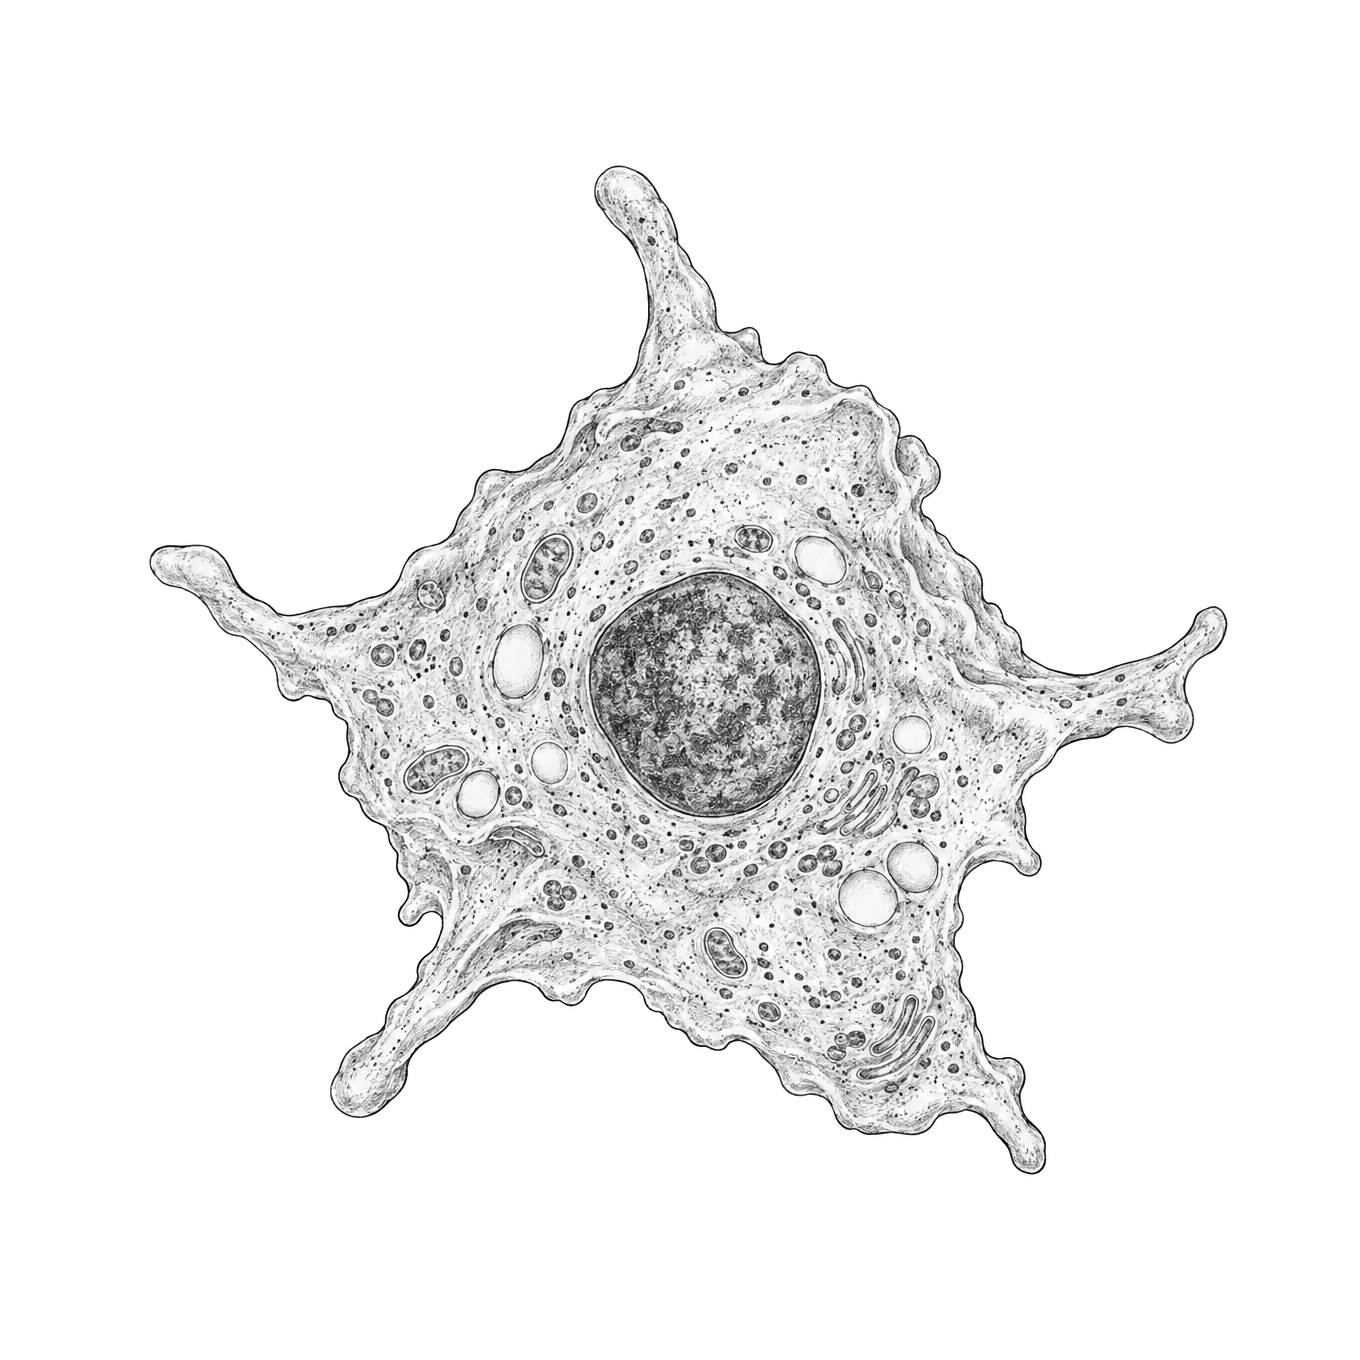
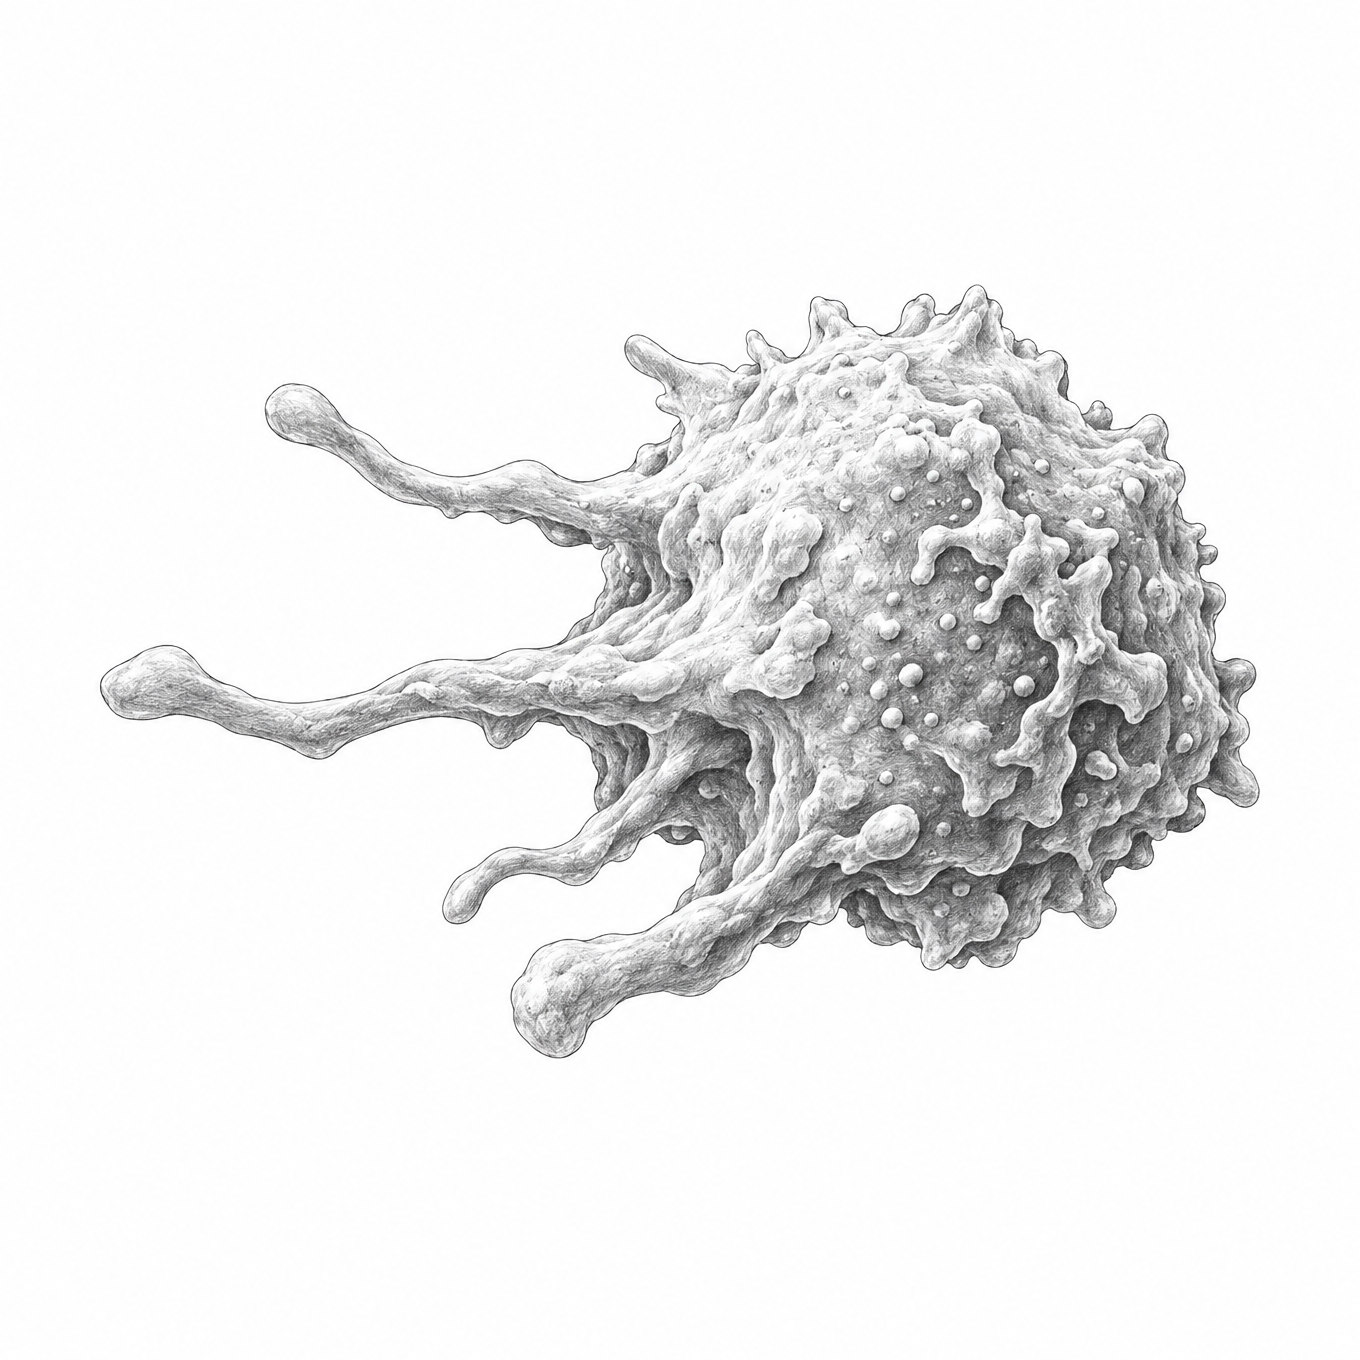
Add apoptosis pictures and prompts
Claude-Session: https://claude.ai/code/session_01JCsiBx7cubghJXYQAVEo1E

Changed region(s): [[0.0618, 0.1235, 0.9265, 0.8647]]

diff --git a/images/prompts.md b/images/prompts.md
@@ -1,55 +1,60 @@
-# Picture prompts
+# Picture prompts: Apoptosis
 
-Only the finger was redone (once). All other pictures passed on the first try.
+Model: GPT Image 2.5 (Sunburst), text to image, quality high, 2K.
 
-Model: GPT Image 2.5 (Sunburst), text to image, quality high, 2K. White background removed afterwards (clean transparent cut-outs).
+Only embryo_hand.png was made again (once). The other four passed on the first try.
 
-## finger.png
+Credits used: 840 (5 × first try + 1 redo).
 
-Aspect ratio: 16:9
+| Picture | Aspect | Credits |
+|---|---|---|
+| hand.png | 3:4 | 150 |
+| embryo_hand.png (try 1, rejected) | 3:4 | 150 |
+| embryo_hand.png (try 2, used) | 3:4 | 150 |
+| cell.png | 1:1 | 130 |
+| cell_fragments.png | 1:1 | 130 |
+| macrophage.png | 1:1 | 130 |
 
-Used (attempt 2):
+---
 
-```
-A single human index finger pointing to the left, seen from the side with the fingernail on top, slightly bent, natural adult proportions, smooth skin with only faint fine knuckle wrinkles on the top of the joints, no wounds, no sores, no bumps, the base of the finger ending in a soft pencil fade, lots of empty space around it, nothing touching the edges. Black and white scientific illustration, fine ink lines and soft graphite shading, like an old textbook, a single object isolated on a plain white background, no text, no labels, no color. plain white background, no text, no labels, no numbers, no arrows, no shadows, no frame
-```
+## hand.png
 
-Attempt 1 (rejected: knuckle creases looked like a sore, base looked like a tube):
-
-```
-A single human index finger, seen from the side, from the fingertip to just past the middle knuckle, cut off cleanly at the base, clean healthy skin with no wound, fingernail visible, lots of empty space around it, nothing touching the edges. Black and white scientific illustration, fine ink lines and soft graphite shading, like an old textbook, a single object isolated on a plain white background, no text, no labels, no color. plain white background, no text, no labels, no numbers, no arrows, no shadows, no frame
-```
-
-## splinter.png
-
-Aspect ratio: 16:9
+Aspect ratio: 3:4
 
 ```
-A single thin wooden splinter lying horizontally, seen from the side, sharp pointed at one end, rough broken at the other, visible wood grain, lots of empty space around it, nothing touching the edges. Black and white scientific illustration, fine ink lines and soft graphite shading, like an old textbook, a single object isolated on a plain white background, no text, no labels, no color. plain white background, no text, no labels, no numbers, no arrows, no shadows, no frame
+An adult human hand, palm facing the viewer, fingers spread wide, seen straight on from the front, cut off cleanly at the wrist, centered. Lots of empty space around it, nothing touching the edges. 3D black and white scientific illustration, fine ink lines and soft graphite shading, like an old textbook, a single object isolated on a plain white background, no text, no labels, no color. No text, no labels, no numbers, no arrows, no shadows, no frame.
 ```
 
-## skin_section.png
+## embryo_hand.png
 
-Aspect ratio: 3:2
+Aspect ratio: 3:4
+
+Used (try 2):
 
 ```
-A rectangular cross-section block of human skin seen from a three-quarter front angle, showing the thin outer surface layer, the thicker deeper layer below, and one small blood vessel running horizontally through the deeper layer, no wound, lots of empty space around it, nothing touching the edges. Black and white scientific illustration, fine ink lines and soft graphite shading, like an old textbook, a single object isolated on a plain white background, no text, no labels, no color. plain white background, no text, no labels, no numbers, no arrows, no shadows, no frame
+An embryonic human hand plate at about six weeks of development, drawn large like an anatomical model: one flat, broad, rounded paddle shaped like a fan or mitten, with five short finger rays showing only as faint raised ridges inside it, and the spaces between the ridges completely filled with thin, slightly translucent webbing, so the outline is one smooth rounded edge with only tiny notches at the rim. No separate fingers, no fingernails, no palm creases. Palm facing the viewer, seen straight on from the front, upright, on a short slender wrist cut off cleanly at the bottom, centered, filling about the same space an adult hand would. Lots of empty space around it, nothing touching the edges. 3D black and white scientific illustration, fine ink lines and soft graphite shading, like an old textbook, a single object isolated on a plain white background, no text, no labels, no color. No text, no labels, no numbers, no arrows, no shadows, no frame.
 ```
 
-## bacterium.png
+Try 1 (rejected: looked like a chubby baby hand with almost separate fingers instead of a webbed paddle, and its shading was softer than the other pictures):
+
+```
+An embryonic human hand at the paddle stage: a flat, rounded paddle with five faint finger ridges joined by thin webbing of tissue between them, palm facing the viewer, seen straight on from the front, cut off cleanly at the wrist, centered, upright like an open hand. Lots of empty space around it, nothing touching the edges. 3D black and white scientific illustration, fine ink lines and soft graphite shading, like an old textbook, a single object isolated on a plain white background, no text, no labels, no color. No text, no labels, no numbers, no arrows, no shadows, no frame.
+```
+
+## cell.png
 
 Aspect ratio: 1:1
 
 ```
-A single rod-shaped bacterium, seen from the side at a slight angle, smooth capsule-shaped body, lots of empty space around it, nothing touching the edges. Black and white scientific illustration, fine ink lines and soft graphite shading, like an old textbook, a single object isolated on a plain white background, no text, no labels, no color. plain white background, no text, no labels, no numbers, no arrows, no shadows, no frame
+One healthy round animal cell shown as a 3D cut-away, seen from a slight three-quarter angle above, with a quarter of the cell removed to reveal the inside: a smooth cell membrane, a large round nucleus near the center, and several bean-shaped mitochondria with folded inner membranes floating in the cytoplasm. Lots of empty space around it, nothing touching the edges. 3D black and white scientific illustration, fine ink lines and soft graphite shading, like an old textbook, a single object isolated on a plain white background, no text, no labels, no color. No text, no labels, no numbers, no arrows, no shadows, no frame.
 ```
 
-## neutrophil.png
+## cell_fragments.png
 
 Aspect ratio: 1:1
 
 ```
-A single neutrophil white blood cell, seen from the front, round cell with a nucleus divided into three to five connected lobes, finely grainy cytoplasm, lots of empty space around it, nothing touching the edges. Black and white scientific illustration, fine ink lines and soft graphite shading, like an old textbook, a single object isolated on a plain white background, no text, no labels, no color. plain white background, no text, no labels, no numbers, no arrows, no shadows, no frame
+A loose cluster of about eight small, round, membrane-wrapped bubbles of different sizes, the remains of one cell that broke apart; a few bubbles hold small dark fragments of nucleus inside. Seen from the front at eye level, the bubbles grouped close together in the center. Lots of empty space around it, nothing touching the edges. 3D black and white scientific illustration, fine ink lines and soft graphite shading, like an old textbook, a single object isolated on a plain white background, no text, no labels, no color. No text, no labels, no numbers, no arrows, no shadows, no frame.
 ```
 
 ## macrophage.png
@@ -57,37 +62,5 @@ A single neutrophil white blood cell, seen from the front, round cell with a nuc
 Aspect ratio: 1:1
 
 ```
-A single macrophage cell, seen from above, large irregular cell body with a few short blunt extensions reaching outward, one rounded nucleus, lots of empty space around it, nothing touching the edges. Black and white scientific illustration, fine ink lines and soft graphite shading, like an old textbook, a single object isolated on a plain white background, no text, no labels, no color. plain white background, no text, no labels, no numbers, no arrows, no shadows, no frame
-```
-
-## dendritic_cell.png
-
-Aspect ratio: 1:1
-
-```
-A single dendritic cell, seen from above, small central cell body with long thin branching arms spreading out in several directions, lots of empty space around it, nothing touching the edges. Black and white scientific illustration, fine ink lines and soft graphite shading, like an old textbook, a single object isolated on a plain white background, no text, no labels, no color. plain white background, no text, no labels, no numbers, no arrows, no shadows, no frame
-```
-
-## lymph_node.png
-
-Aspect ratio: 1:1
-
-```
-A single human lymph node cut in half, seen from the front in cross-section, bean-shaped with a small indent on one side, showing the outer capsule, round follicles near the edge and the inner region, lots of empty space around it, nothing touching the edges. Black and white scientific illustration, fine ink lines and soft graphite shading, like an old textbook, a single object isolated on a plain white background, no text, no labels, no color. plain white background, no text, no labels, no numbers, no arrows, no shadows, no frame
-```
-
-## b_cell.png
-
-Aspect ratio: 1:1
-
-```
-A single B lymphocyte cell, seen from the front, small round cell with a large round nucleus filling most of it and a thin rim of cytoplasm, lots of empty space around it, nothing touching the edges. Black and white scientific illustration, fine ink lines and soft graphite shading, like an old textbook, a single object isolated on a plain white background, no text, no labels, no color. plain white background, no text, no labels, no numbers, no arrows, no shadows, no frame
-```
-
-## antibody.png
-
-Aspect ratio: 1:1
-
-```
-A single antibody protein molecule, seen from the front, Y-shaped, built from rounded bead-like segments, two arms and one stem, lots of empty space around it, nothing touching the edges. Black and white scientific illustration, fine ink lines and soft graphite shading, like an old textbook, a single object isolated on a plain white background, no text, no labels, no color. plain white background, no text, no labels, no numbers, no arrows, no shadows, no frame
+One macrophage, a large irregular immune cell with a lumpy, ruffled surface and several soft, reaching arm-like extensions (pseudopods), seen in 3D from a slight three-quarter angle, its arms reaching toward the left. Lots of empty space around it, nothing touching the edges. 3D black and white scientific illustration, fine ink lines and soft graphite shading, like an old textbook, a single object isolated on a plain white background, no text, no labels, no color. No text, no labels, no numbers, no arrows, no shadows, no frame.
 ```
